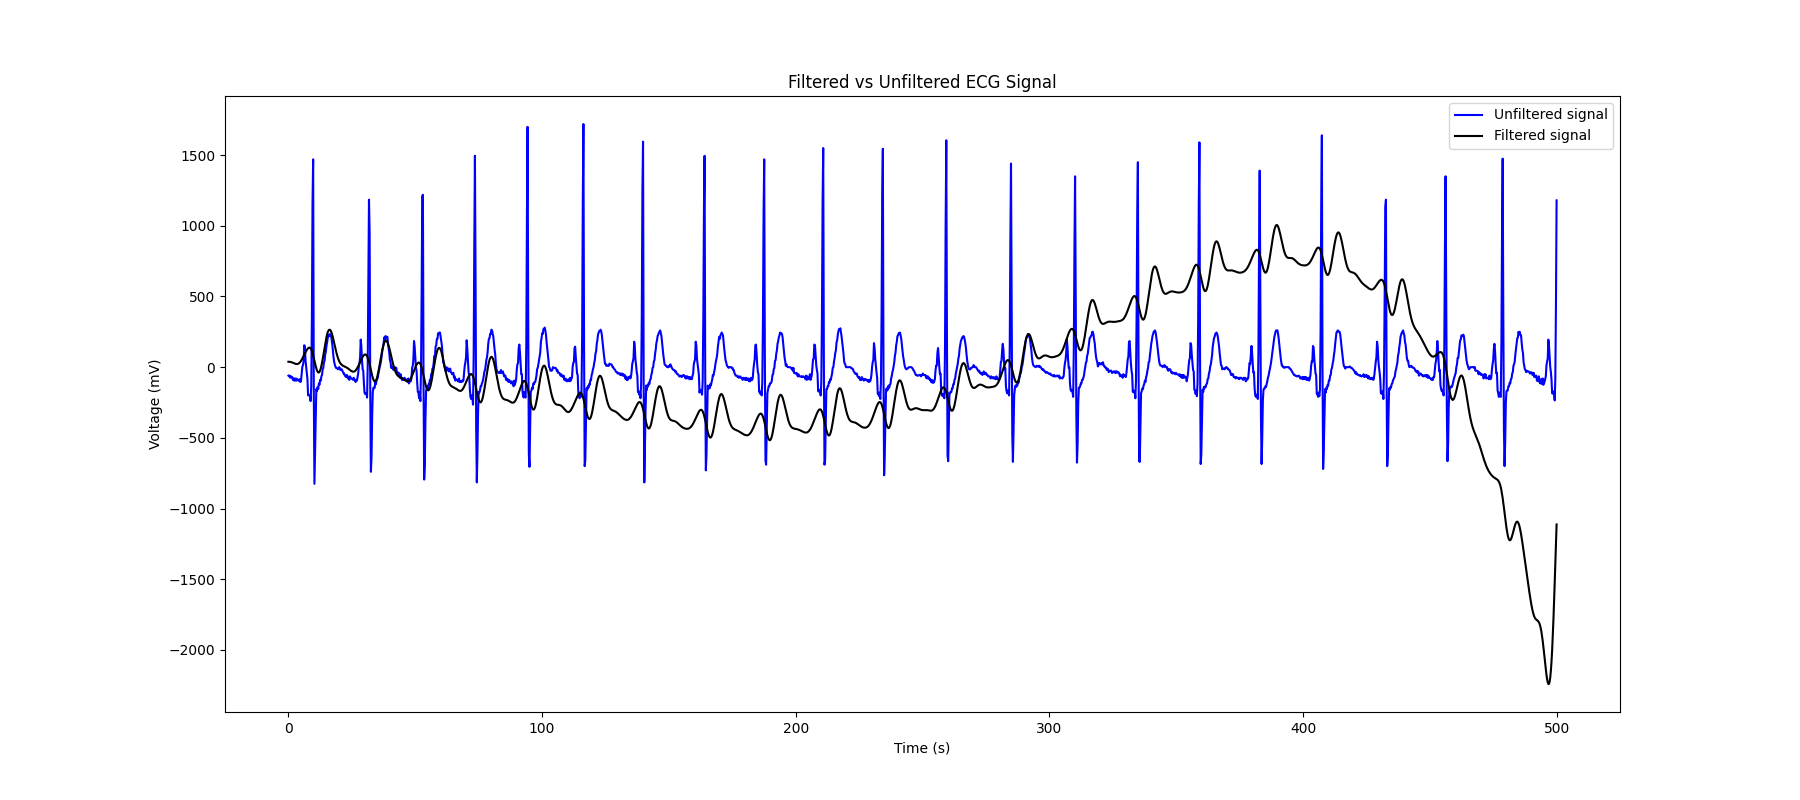
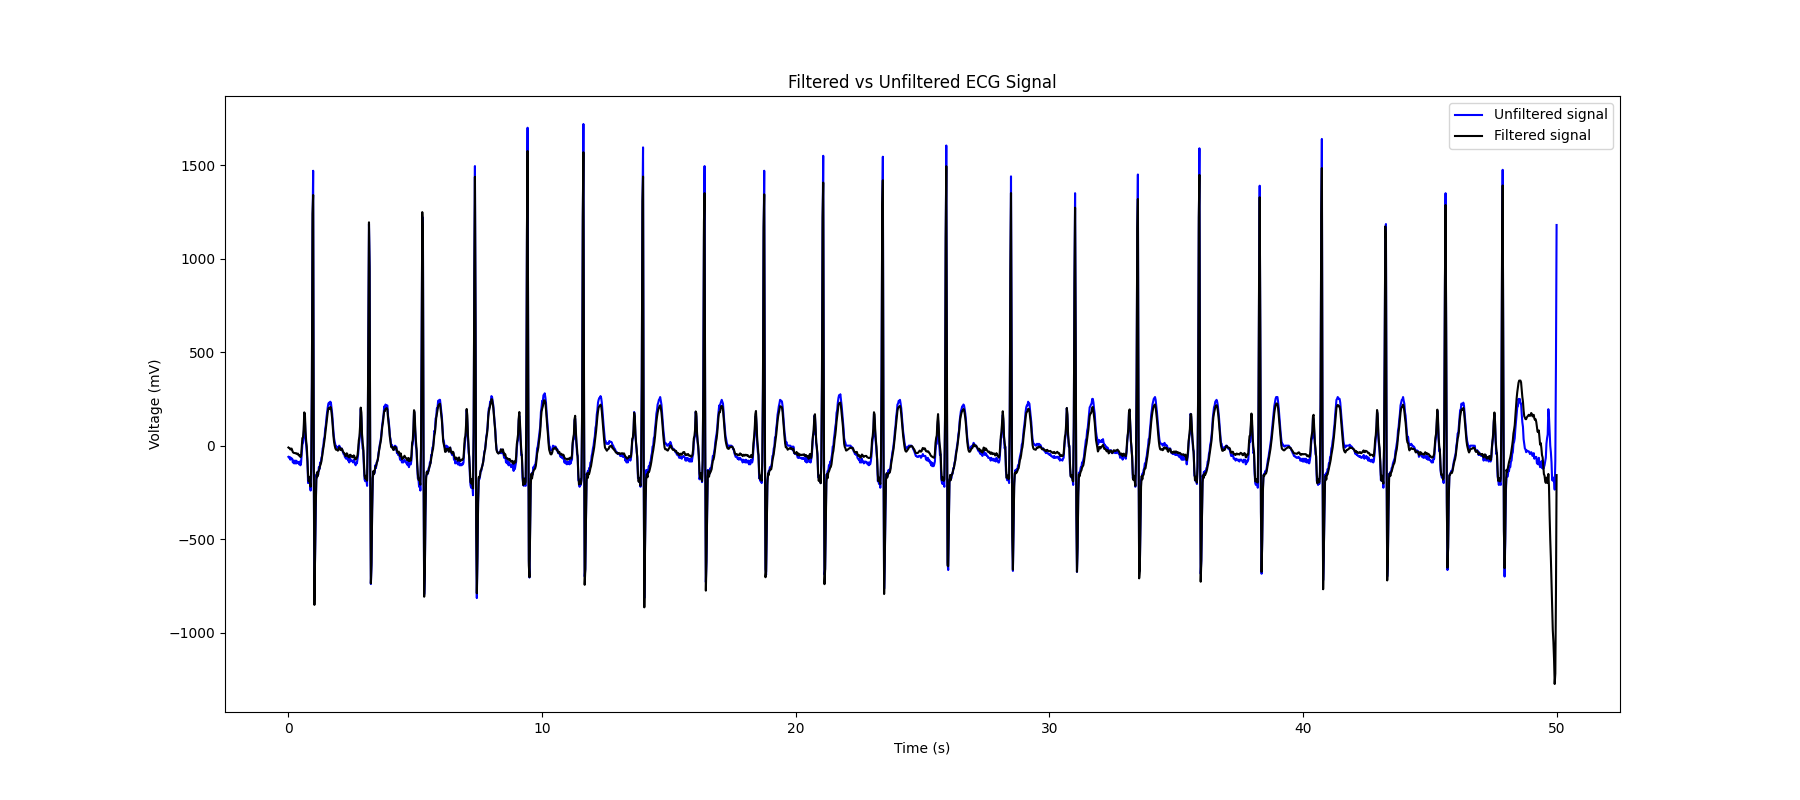
Updated running algorithms

diff --git a/test.py b/test.py
@@ -5,15 +5,16 @@ import numpy as np
 import itertools
 from scipy.signal import iirnotch, filtfilt, sosfiltfilt, butter
 from scipy.fft import fft, fftfreq
+from scipy.differentiate import derivative
 
 # Parameter control zone
-fs = 1000
-START = 10500
-DURATION = 5000
-REFRACTORY = 200
+fs = 100
+DURATION = 500000
+REFRACTORY_LOW = 30
+REFRACTORY_HIGH = 200
 THRESHOLD = 400
 FIGSIZE = (18,8) # Control this to control the size of the output png
-LOW_CUTOFF = 0.5
+LOW_CUTOFF = 1
 HIGH_CUTOFF = 40
 # From memory, the data is approximately:
 # Frequency of the ECG data is 1000 Hz from memory
@@ -22,8 +23,8 @@ HIGH_CUTOFF = 40
 # (120001 - 180000) motion artifacts
 # (180001 - 210000) amplified noise
 
-sos_low = butter(4, LOW_CUTOFF, btype='highpass', fs=fs, output='sos')
-sos_high = butter(4, HIGH_CUTOFF, btype='lowpass', fs=fs, output='sos')
+sos_low = butter(2, LOW_CUTOFF, btype='highpass', fs=fs, output='sos')
+sos_high = butter(2, HIGH_CUTOFF, btype='lowpass', fs=fs, output='sos')
 
 
 # Preprocessing of the .mat file saved from before. Can be copied at your own discretion
@@ -37,8 +38,9 @@ mat_contents = loadmat('ProjectTrainData.mat')
 b,a = iirnotch(50, 8, fs = fs)
 
 
-def shitty_peak_detection(signal, threshold, refractory):
+def shitty_peak_detection(signal):
     peaks = []
+    threshold = np.percentile(signal, 97)
     last_refractory = -99999
     
     for i in range(1, len(signal) - 1):
@@ -46,7 +48,7 @@ def shitty_peak_detection(signal, threshold, refractory):
             signal[i-1] < signal[i] and
             signal[i+1] < signal[i] and
             signal[i] > threshold and
-            i > last_refractory + refractory
+            i > last_refractory + REFRACTORY_LOW
         ):
             peaks.append(i)
             last_refractory = i
@@ -64,6 +66,13 @@ def calculate_hr_hrv(peaks):
 def plot_figure(x_axis, data):
     plt.figure(figsize = FIGSIZE)
     plt.plot(x_axis, data)
+    plt.ylabel("Voltage (mV)")
+    plt.xlabel("Time (s)")
+    plt.show()
+
+def plot_hexbin(x_axis, data):
+    plt.figure(figsize = FIGSIZE)
+    plt.hexbin(x_axis, data)
     plt.ylabel("Voltage (mV)")
     plt.xlabel("Time (s)")
     plt.show()
@@ -95,6 +104,21 @@ def plot_double_figures_vertical():
     plt.savefig("doubles_plot.png")
     plt.show()
 
+def plot_2_derivatives(x_axis, filtered):
+    der_1 = np.gradient(filtered, x_axis)
+    der_2 = np.gradient(der_1, x_axis)
+    plt.figure(figsize = FIGSIZE)
+    plt.plot(x_axis, filtered, color = "black", label = "magnitude")
+    # plt.plot(x_axis, der_1, color = "blue", label = "velocity")
+    # plt.plot(x_axis, der_2, color = "green", label = "acceleration")
+    plt.ylabel("Voltage (mV)")
+    plt.xlabel("Time (s)")
+    plt.legend()
+    plt.title("ECG Monitor at rest")
+    plt.savefig("noyo.png")
+    plt.show()
+
+
 def fourier_transform():
     N = len(flattened)
     yf = fft(filtered)
@@ -114,20 +138,61 @@ def plot_double_figure_overlay(x_axis, flattened, filtered):
     plt.title("Filtered vs Unfiltered ECG Signal")
     plt.savefig("referenceheart.png")
     plt.show()
+i=1
+expert_data = loadmat('ProjectTrainData.mat')["QRSexpert"].ravel()
+mat_contents = (loadmat('ProjectTrainData.mat')["ECG"].ravel())
+accuracies = []
+for signal, expert in zip(mat_contents, expert_data):
+    flattened = signal.ravel()[0:DURATION]
+    expert = expert.ravel()
+    expert = [x for x in expert if x < DURATION]
+    expert = np.asarray(expert)
+    # print(expert)
 
-
-mat_contents = loadmat('ProjectTrainData.mat')["ECG"].ravel()
-for content in mat_contents:
-    flattened = content.ravel()[0:2000]
     # print(len(flattened))
     # print(flattened)
     filtered = filtfilt(b, a, flattened)
     filtered = sosfiltfilt(sos_low, filtered)
     filtered = sosfiltfilt(sos_high, filtered)
-    x_axis = np.linspace(0, DURATION/fs, len(flattened))*100
-    peaks = shitty_peak_detection(filtered, THRESHOLD, REFRACTORY)
+    x_axis = np.linspace(0, DURATION/fs, len(flattened))
+    peaks = np.asarray(shitty_peak_detection(filtered))
+    # print(peaks)
+
+    shared = np.intersect1d(peaks, expert)
+
+    tol = int(0.050 * fs)  # 50 ms tolerance
+
+    peaks = np.asarray(peaks, dtype=int)
+    expert = np.asarray(expert, dtype=int)
+
+    matched = 0
+    used = np.zeros(len(peaks), dtype=bool)
+
+    for e in expert:
+        # find all peaks within tolerance window
+        idx = np.where(np.abs(peaks - e) <= tol)[0]
+        if len(idx) > 0:
+            # choose the closest unused peak
+            idx = idx[~used[idx]]
+            if len(idx) > 0:
+                closest = idx[np.argmin(np.abs(peaks[idx] - e))]
+                used[closest] = True
+                matched += 1
+
+    accuracy = matched / len(expert) * 100 if len(expert) > 0 else 0
+    accuracies.append(accuracy)
+
+    # print(peaks)
+    # print(f"Expert data: {expert}")
+    print(f"Patient {i}\n__________\nShared points: {matched}\nTotal points: {len(expert)}\nAccuracy: {accuracy} %\n")
+    i += 1
     # plot_filtered_figure(x_axis, filtered, peaks)
+    
+    # plot_hexbin(x_axis, filtered)
 
-    plot_double_figure_overlay(x_axis, flattened, filtered)
-
-
+    # plot_double_figure_overlay(x_axis, flattened, filtered)
+print(f"""Final evaluation:
+Mean accuracy: {np.mean(accuracies)}
+Mean STD: {np.std(accuracies)}
+Worst performance: {np.min(accuracies)}%
+Best performance: {np.max(accuracies)}%""")

diff --git a/matlab_processing.py b/matlab_processing.py
@@ -20,8 +20,3 @@ sos_low = butter(4, LOW_CUTOFF, btype='highpass', fs=fs, output='sos')
 sos_high = butter(4, HIGH_CUTOFF, btype='lowpass', fs=fs, output='sos')
 
 # Preprocessing of the .mat file saved from before. Can be copied at your own discretion
-mat_contents = loadmat('ProjectTrainData.mat')["ECG"].ravel()
-for content in mat_contents:
-    flattened = content.ravel()
-    print(len(flattened))
-    print(flattened)